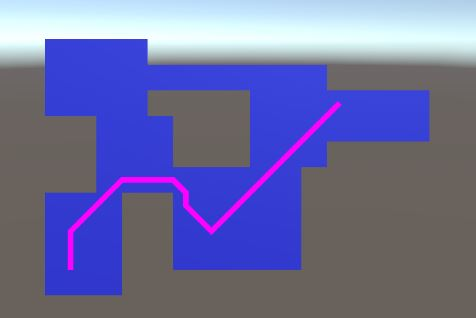
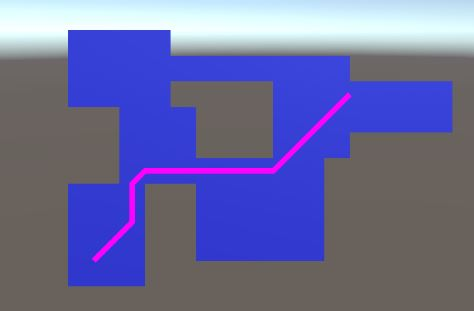
Image updated

Changed region(s): [[0.0, 0.0868, 1.0, 0.955]]

diff --git a/Assets/Scripts/PathFinderUtils/RectsAndPath.cs b/Assets/Scripts/PathFinderUtils/RectsAndPath.cs
@@ -46,8 +46,8 @@ public class RectsAndPath : MonoBehaviour
 
     private void TestRectangleCreator()
     {
-        var start = new Vector2(12, 8f);
-        var end = new Vector2(2.5f, 3.5f);
+        var start = new Vector2(13f, 7.5f);
+        var end = new Vector2(3f, 1f);
         var testData = RectangleData.GetTestData();
         CreateRectanglesAndPath(testData, start, end);
     }
